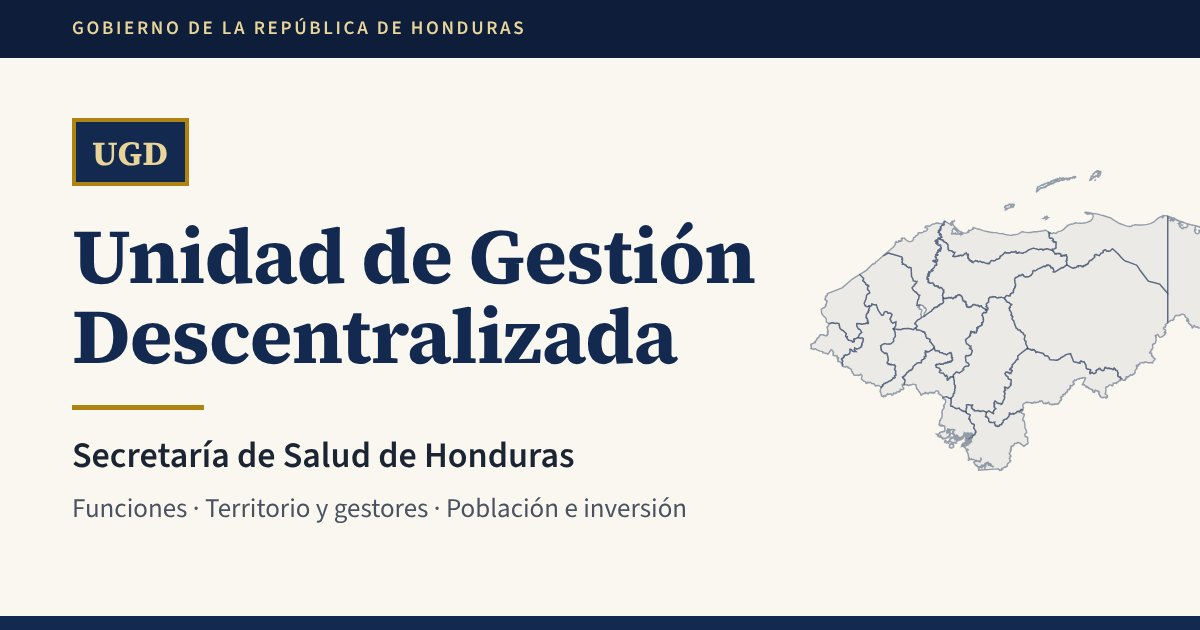
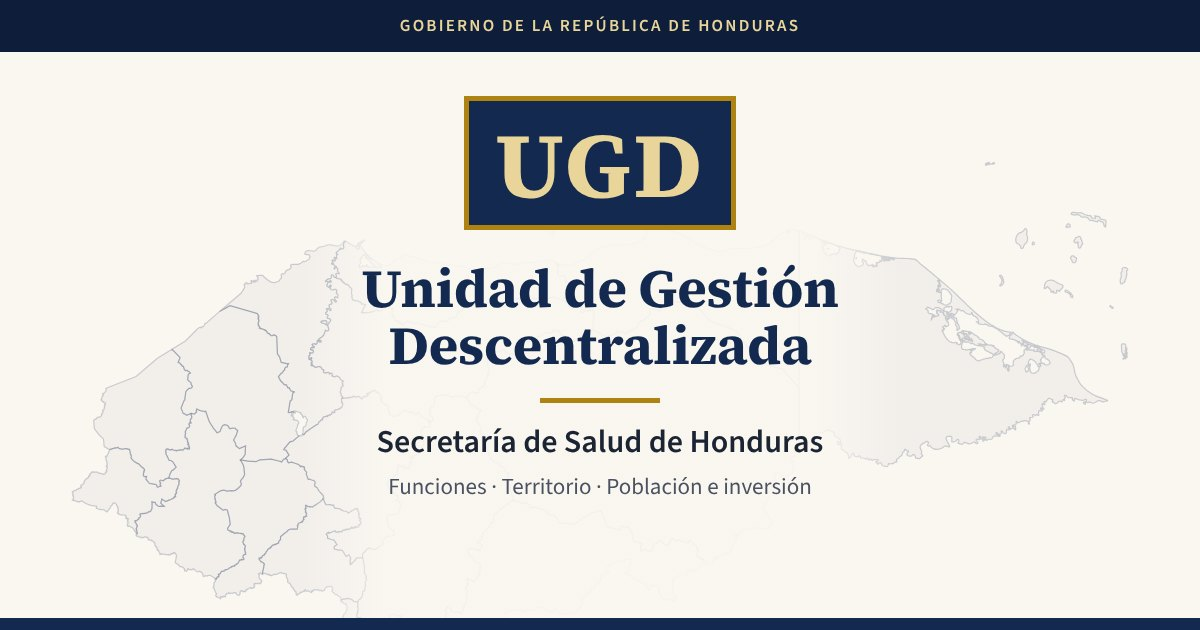
Vista previa legible en recorte cuadrado, nota de población breve y espera estable en la prueba de administración
- Imagen para compartir centrada: todo el texto en la zona segura x 315–885;
  el script comprueba los límites al generarla.
- Alcance de la población departamental en tres líneas más las advertencias
  de la fuente y una nota metodológica breve sobre solapamientos.
- test:admin-browser espera el texto del monitor en lugar de leerlo al
  instante (fallo intermitente en CI).

Claude-Session: https://claude.ai/code/session_01KGQ9KpFLD8fWBHPUAFrR4m

diff --git a/src/map/explorer.js b/src/map/explorer.js
@@ -105,12 +105,11 @@ export async function startExplorer(data,config,load,content=emptyContent(),prev
   const codes=new Set(data.territories.filter(x=>x.parent_id===t.official_code).map(x=>x.official_code));
   const warnings=data.data_quality_issues.filter(i=>codes.has(i.territory_id));
   const src=sum.source_ids.map(id=>data.sources.find(s=>s.source_id===id)?.title).filter(Boolean).join(', ');
-  const parts=[`Población cubierta: ${fmt(sum.population)}. Total calculado a partir de los registros disponibles: suma de ${fmt(sum.records)} ${sum.records===1?'registro municipal':'registros municipales'}, uno por municipio. La fuente no publica este total por departamento.`,
+  const parts=[`Población cubierta: ${fmt(sum.population)}, calculada sumando ${sum.partial?`los ${fmt(sum.records)} de ${fmt(sum.municipalities)} municipios con registro (alcance parcial; los demás no cuentan como cero)`:`los registros de sus ${fmt(sum.municipalities)} municipios`}.`,
    `Período: ${esc(period())} · ${esc(careLabel(content,sum.care_level))}${src?' · Fuente: '+esc(src):''}.`];
-  parts.push(sum.partial?`Alcance parcial: ${fmt(sum.records)} de ${fmt(sum.municipalities)} municipios tienen población reportada; los demás no se cuentan como cero.`:`Incluye los ${fmt(sum.municipalities)} municipios del departamento.`);
   for(const n of sum.notes)parts.push(`${esc(find(n.territory_id)?.name||n.territory_id)}: ${esc(n.note)}.`);
   for(const w of warnings)parts.push(`${esc(find(w.territory_id)?.name||w.territory_id)}: ${esc(w.detail)}`);
-  parts.push('Es población cubierta por los establecimientos, no población total de habitantes. No consta si algún establecimiento atiende también a población de municipios vecinos; por eso la suma no se presenta como población única confirmada.');
+  parts.push('Nota metodológica: es población cubierta por los establecimientos, no total de habitantes; la fuente no indica si hay solapamientos entre municipios.');
   return parts.map(p=>`<p class="detail-note">${p}</p>`).join('');
  }
  function detail(){
@@ -176,7 +175,7 @@ export async function startExplorer(data,config,load,content=emptyContent(),prev
   if(matches.length>40)$('#results').insertAdjacentHTML('beforeend','<li>Más resultados; precise la búsqueda.</li>');bindSelection($('#results'));
  }
  function table(){
-  const territories=visibleTerritories(data,state);$('#caption').textContent=territories.length+' territorios · '+period()+(sourceTitle()?' · Fuente: '+sourceTitle():'')+(territories.some(t=>t.type==='department')?' · Población cubierta por departamento: total calculado a partir de los registros municipales disponibles del mismo período y nivel; los municipios sin valor no se cuentan como cero.':'');
+  const territories=visibleTerritories(data,state);$('#caption').textContent=territories.length+' territorios · '+period()+(sourceTitle()?' · Fuente: '+sourceTitle():'')+(territories.some(t=>t.type==='department')?' · Población departamental: suma de los registros municipales disponibles.':'');
   const hl=state.gestor?highlight():null;
   $('#table tbody').innerHTML=territories.map(t=>{const m=model(t.official_code),links=snapshot()?linksForTerritory(content,data,state,t.official_code):[];
    const shown=links.slice(0,3).map(({manager})=>`<a data-state-link href="${esc(profileUrl(manager.manager_id))}">${esc(manager.name)}</a>`).join(', ')+(links.length>3?` y ${links.length-3} más`:'');

diff --git a/docs/visual-system.md b/docs/visual-system.md
@@ -71,6 +71,6 @@ Solo una transición de opacidad al redibujar el mapa y cambios de color al pasa
 
 - `npm run test:browser`: estructura, teclado, menú, móvil, enlaces directos y atrás/adelante, lugares sin foto, dirección, estados de error.
 - `npm run review:visual`: capturas por sección en 1440, 820 y 390 px del sitio público y de la vista sintética con fotografías, comprobación de desbordamiento y de contraste WCAG AA, y recorrido territorio → ficha → mapa → atrás (en `work/revision/`, no versionado).
-- Imagen para compartir (`public/social/ugd-compartir.jpg`, 1200×630): se genera con `node scripts/social-image.mjs` desde la tipografía, la paleta y la silueta departamental del portal, sin logotipo, sellos, fotografías ni cifras. Los metadatos `og:*`/`twitter:*` de `index.html` usan URL absolutas bajo `/ugd-portal/` (`tests/social.test.mjs`). Si cambia la imagen, cambiar también su nombre de archivo para que los servicios de vista previa no sirvan la copia en caché.
+- Imagen para compartir (`public/social/ugd-compartir.jpg`, 1200×630): se genera con `node scripts/social-image.mjs` desde la tipografía, la paleta y la silueta departamental del portal, sin logotipo, sellos, fotografías ni cifras. Composición centrada: todo el texto queda en la zona segura x 315–885 para que la identificación se lea completa también cuando el servicio recorta un cuadrado central (el script falla si un texto sale de esa zona). Los metadatos `og:*`/`twitter:*` de `index.html` usan URL absolutas bajo `/ugd-portal/` (`tests/social.test.mjs`). Si cambia la imagen, cambiar también su nombre de archivo para que los servicios de vista previa no sirvan la copia en caché.
 - Para cambiar color o tipografía, editar solo las variables de `:root` en `src/styles.css` y volver a ejecutar `review:visual`.
 - Las clases que emite JavaScript (`info-card`, `detail-*`, `profile-*`, `dataset*`, `content-*`) son parte del contrato entre vistas y estilos: renombrarlas exige actualizar ambos.
